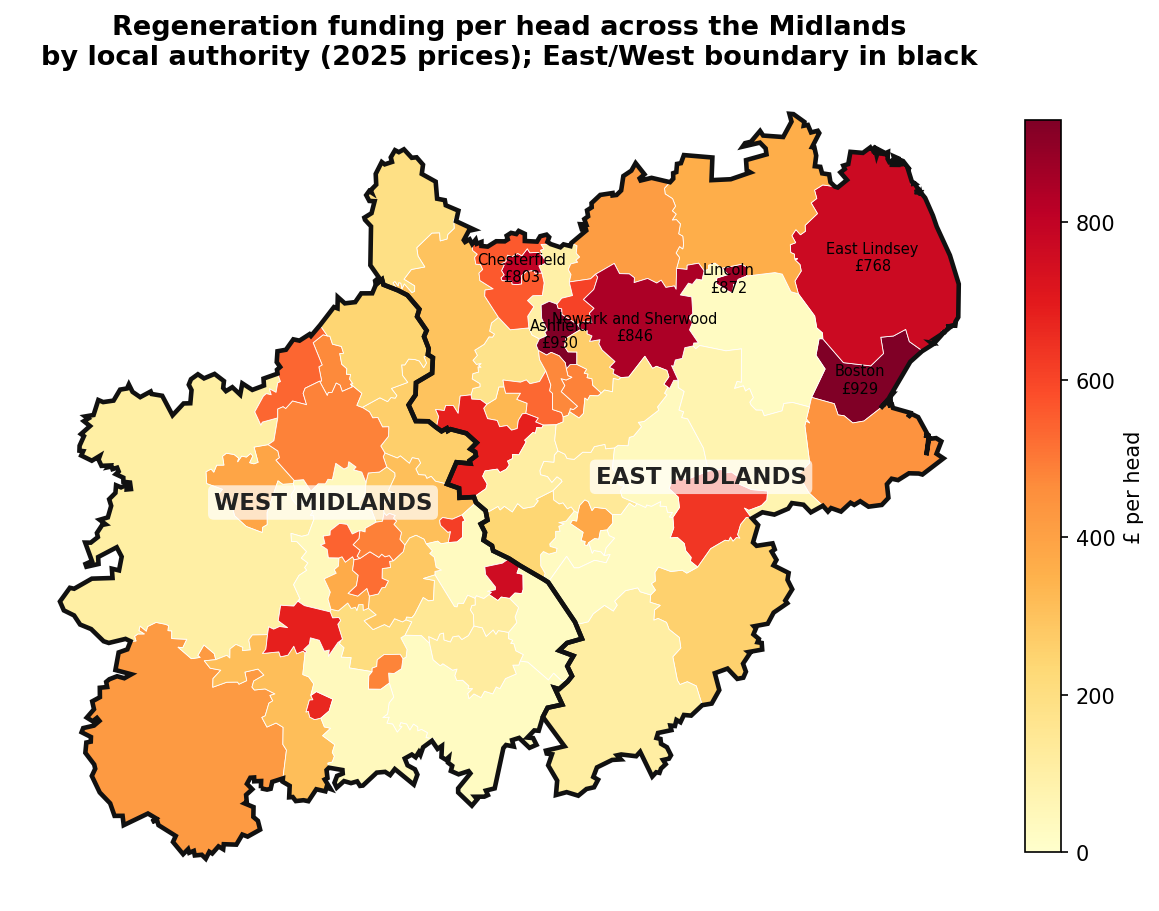
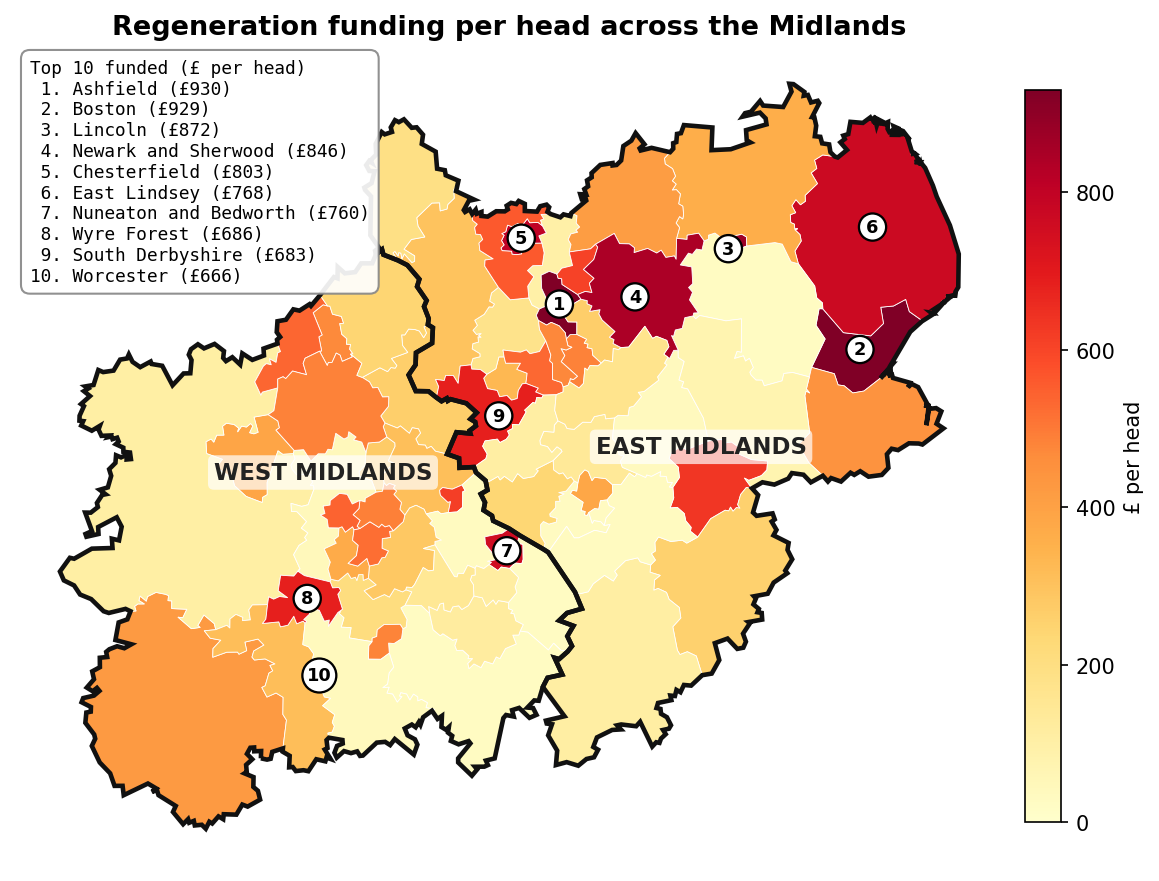
collect midlands analysis within two key scripts and harmonise file paths and secondary references

diff --git a/regeneration_funding/topN_funding_vs_deprivation.py b/regeneration_funding/topN_funding_vs_deprivation.py
@@ -45,7 +45,7 @@ BOTTOM_LABELS = {
 
 
 def main():
-    spec = importlib.util.spec_from_file_location("rm", str(MID / "regeneration_midlands.py"))
+    spec = importlib.util.spec_from_file_location("rm", str(MID / "recreate_core_analysis.py"))
     rm = importlib.util.module_from_spec(spec); spec.loader.exec_module(rm)
     f = rm.load_funding()
     dep = rm.load_deprivation()[["lad", "deprivation_mean"]]

diff --git a/regeneration_funding/README.md b/regeneration_funding/README.md
@@ -26,19 +26,15 @@ Everything here keys off one published model and its accompanying write-ups.
 | [`Regeneration analysis.R`](Regeneration%20analysis.R) | The original **national** analysis in R: choropleth maps, funding vs deprivation, funding vs vote choice / marginality, and `MatchIt` matching of Reform support in funded vs comparable LADs. | Yes: reads the Google Sheet's `Funding per LAD per capita` CSV export, plus census/MRP. |
 | [`Location to Standard Geography Matcher`](Location%20to%20Standard%20Geography%20Matcher) | The geography-matching notebook (same as the Colab above), mapping fund recipients to LADs. | Upstream: feeds the Sheet. |
 | [`topN_funding_vs_deprivation.py`](topN_funding_vs_deprivation.py) → `topN_funding_vs_deprivation.png` | England scatter of funding per head vs household deprivation, top 10 and ranks 11-20 highlighted, least-funded 5 marked. | Yes: funding per head comes from the model (via the `midlands/` loaders). |
-| [`midlands/`](midlands/) | Python **rebuild of the analysis for the Midlands** (top 10, deprivation/vote relationships, matching, plus BES switching, maps and demographic charts). See [`midlands/README.md`](midlands/README.md). | Yes: see below. |
+| [`midlands/`](midlands/) | Python **rebuild for the Midlands**, in two scripts: `recreate_core_analysis.py` (the original analysis: top 10, deprivation/vote relationships, matching) and `additional_demog_political_analysis.py` (deeper funding-vs-demographics and wider political charts). See [`midlands/README.md`](midlands/README.md). | Yes: see below. |
 
 ## Which scripts pull from the published analysis
 
 The dependency chain is: **Google Sheets model → `midlands/data/funding_per_lad.csv` (an export of its `Funding per LAD per capita` tab) → the scripts.**
 
-- `midlands/regeneration_midlands.py` reads that export in `load_funding()`. Everything that imports it therefore inherits the published funding figures:
-  - `topN_funding_vs_deprivation.py`
-  - `midlands/bes_midlands_switching.py`
-  - `midlands/map_midlands_funding.py`
-  - `midlands/age_deprivation_party.py`
-  - `midlands/age_deprivation_party_regions.py`
-  - `midlands/structure_charts.py`
+- `midlands/recreate_core_analysis.py` reads that export in `load_funding()` and holds the shared loaders/matchers. The other scripts import it, so they inherit the published funding figures:
+  - `midlands/additional_demog_political_analysis.py` (imports the core module)
+  - `topN_funding_vs_deprivation.py` (imports the core module)
 - `Regeneration analysis.R` reads the same Sheet exports directly (national version).
 
 The two **methodology notes** describe the method these scripts implement; the **matcher notebook** produced the geography matching that built the Sheet in the first place. Census/MRP/boundary inputs come from the Drive data folder (and, for the Midlands rebuild, are cached under `midlands/data/`).
